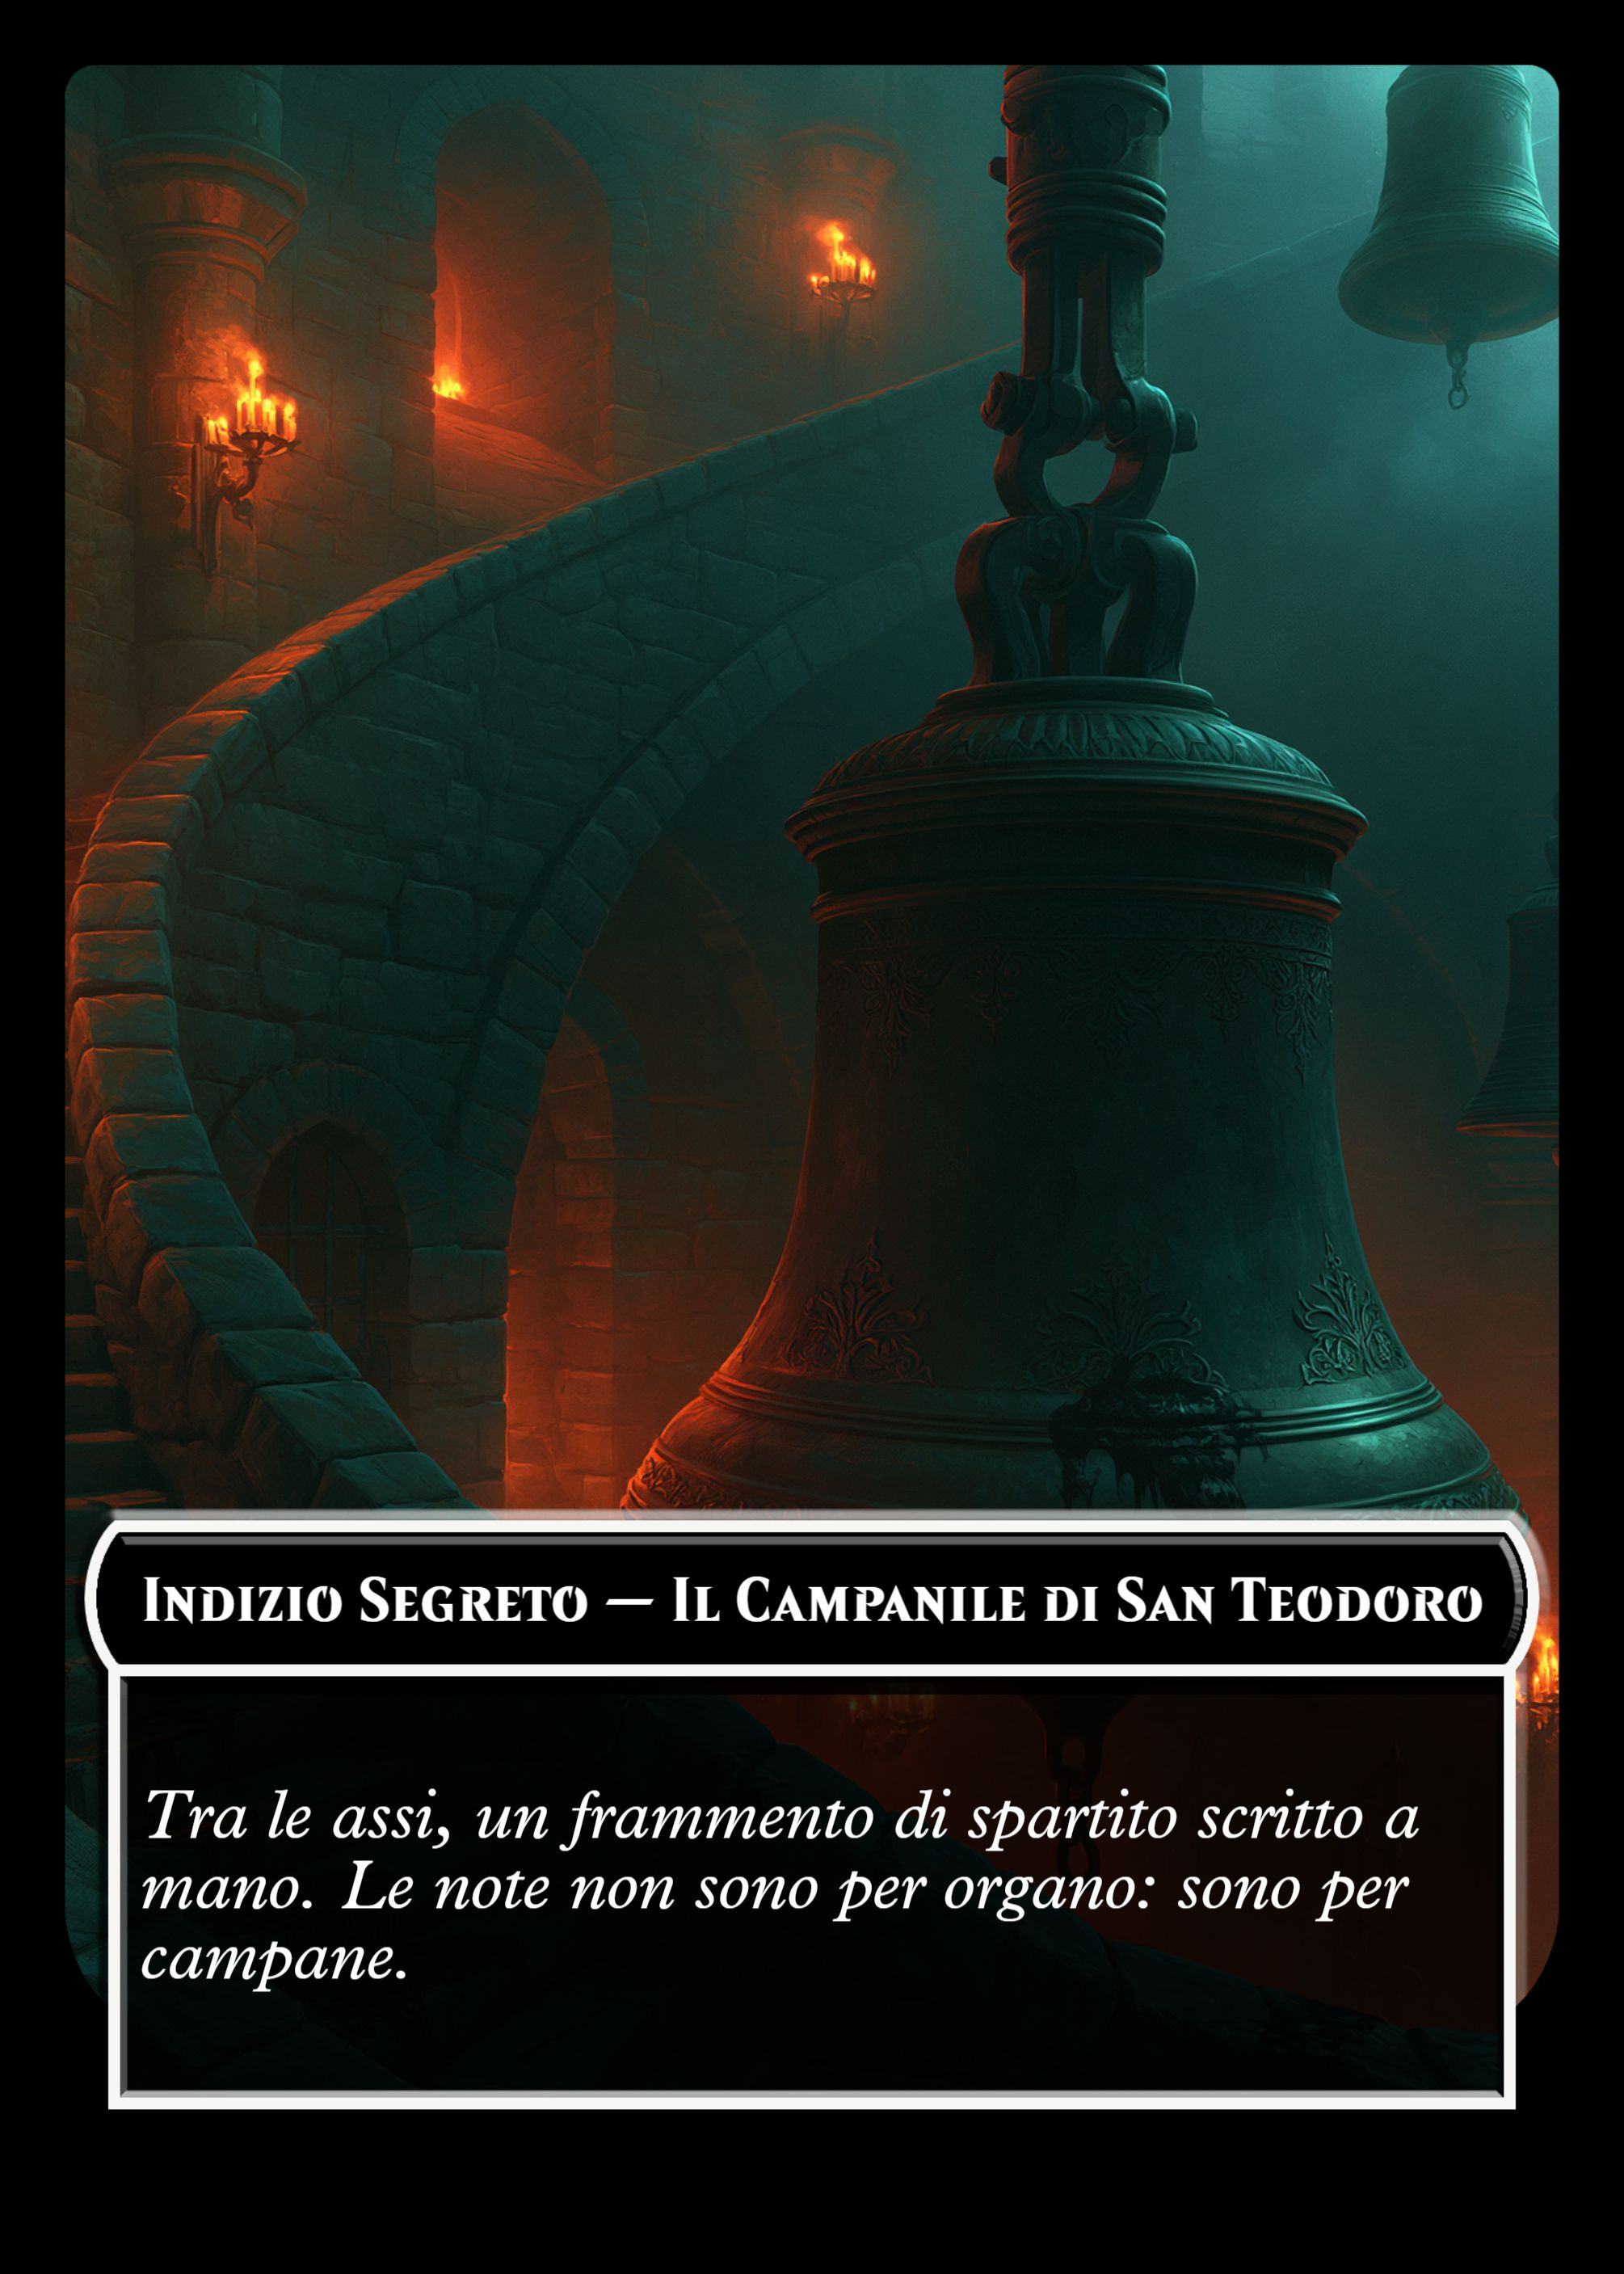
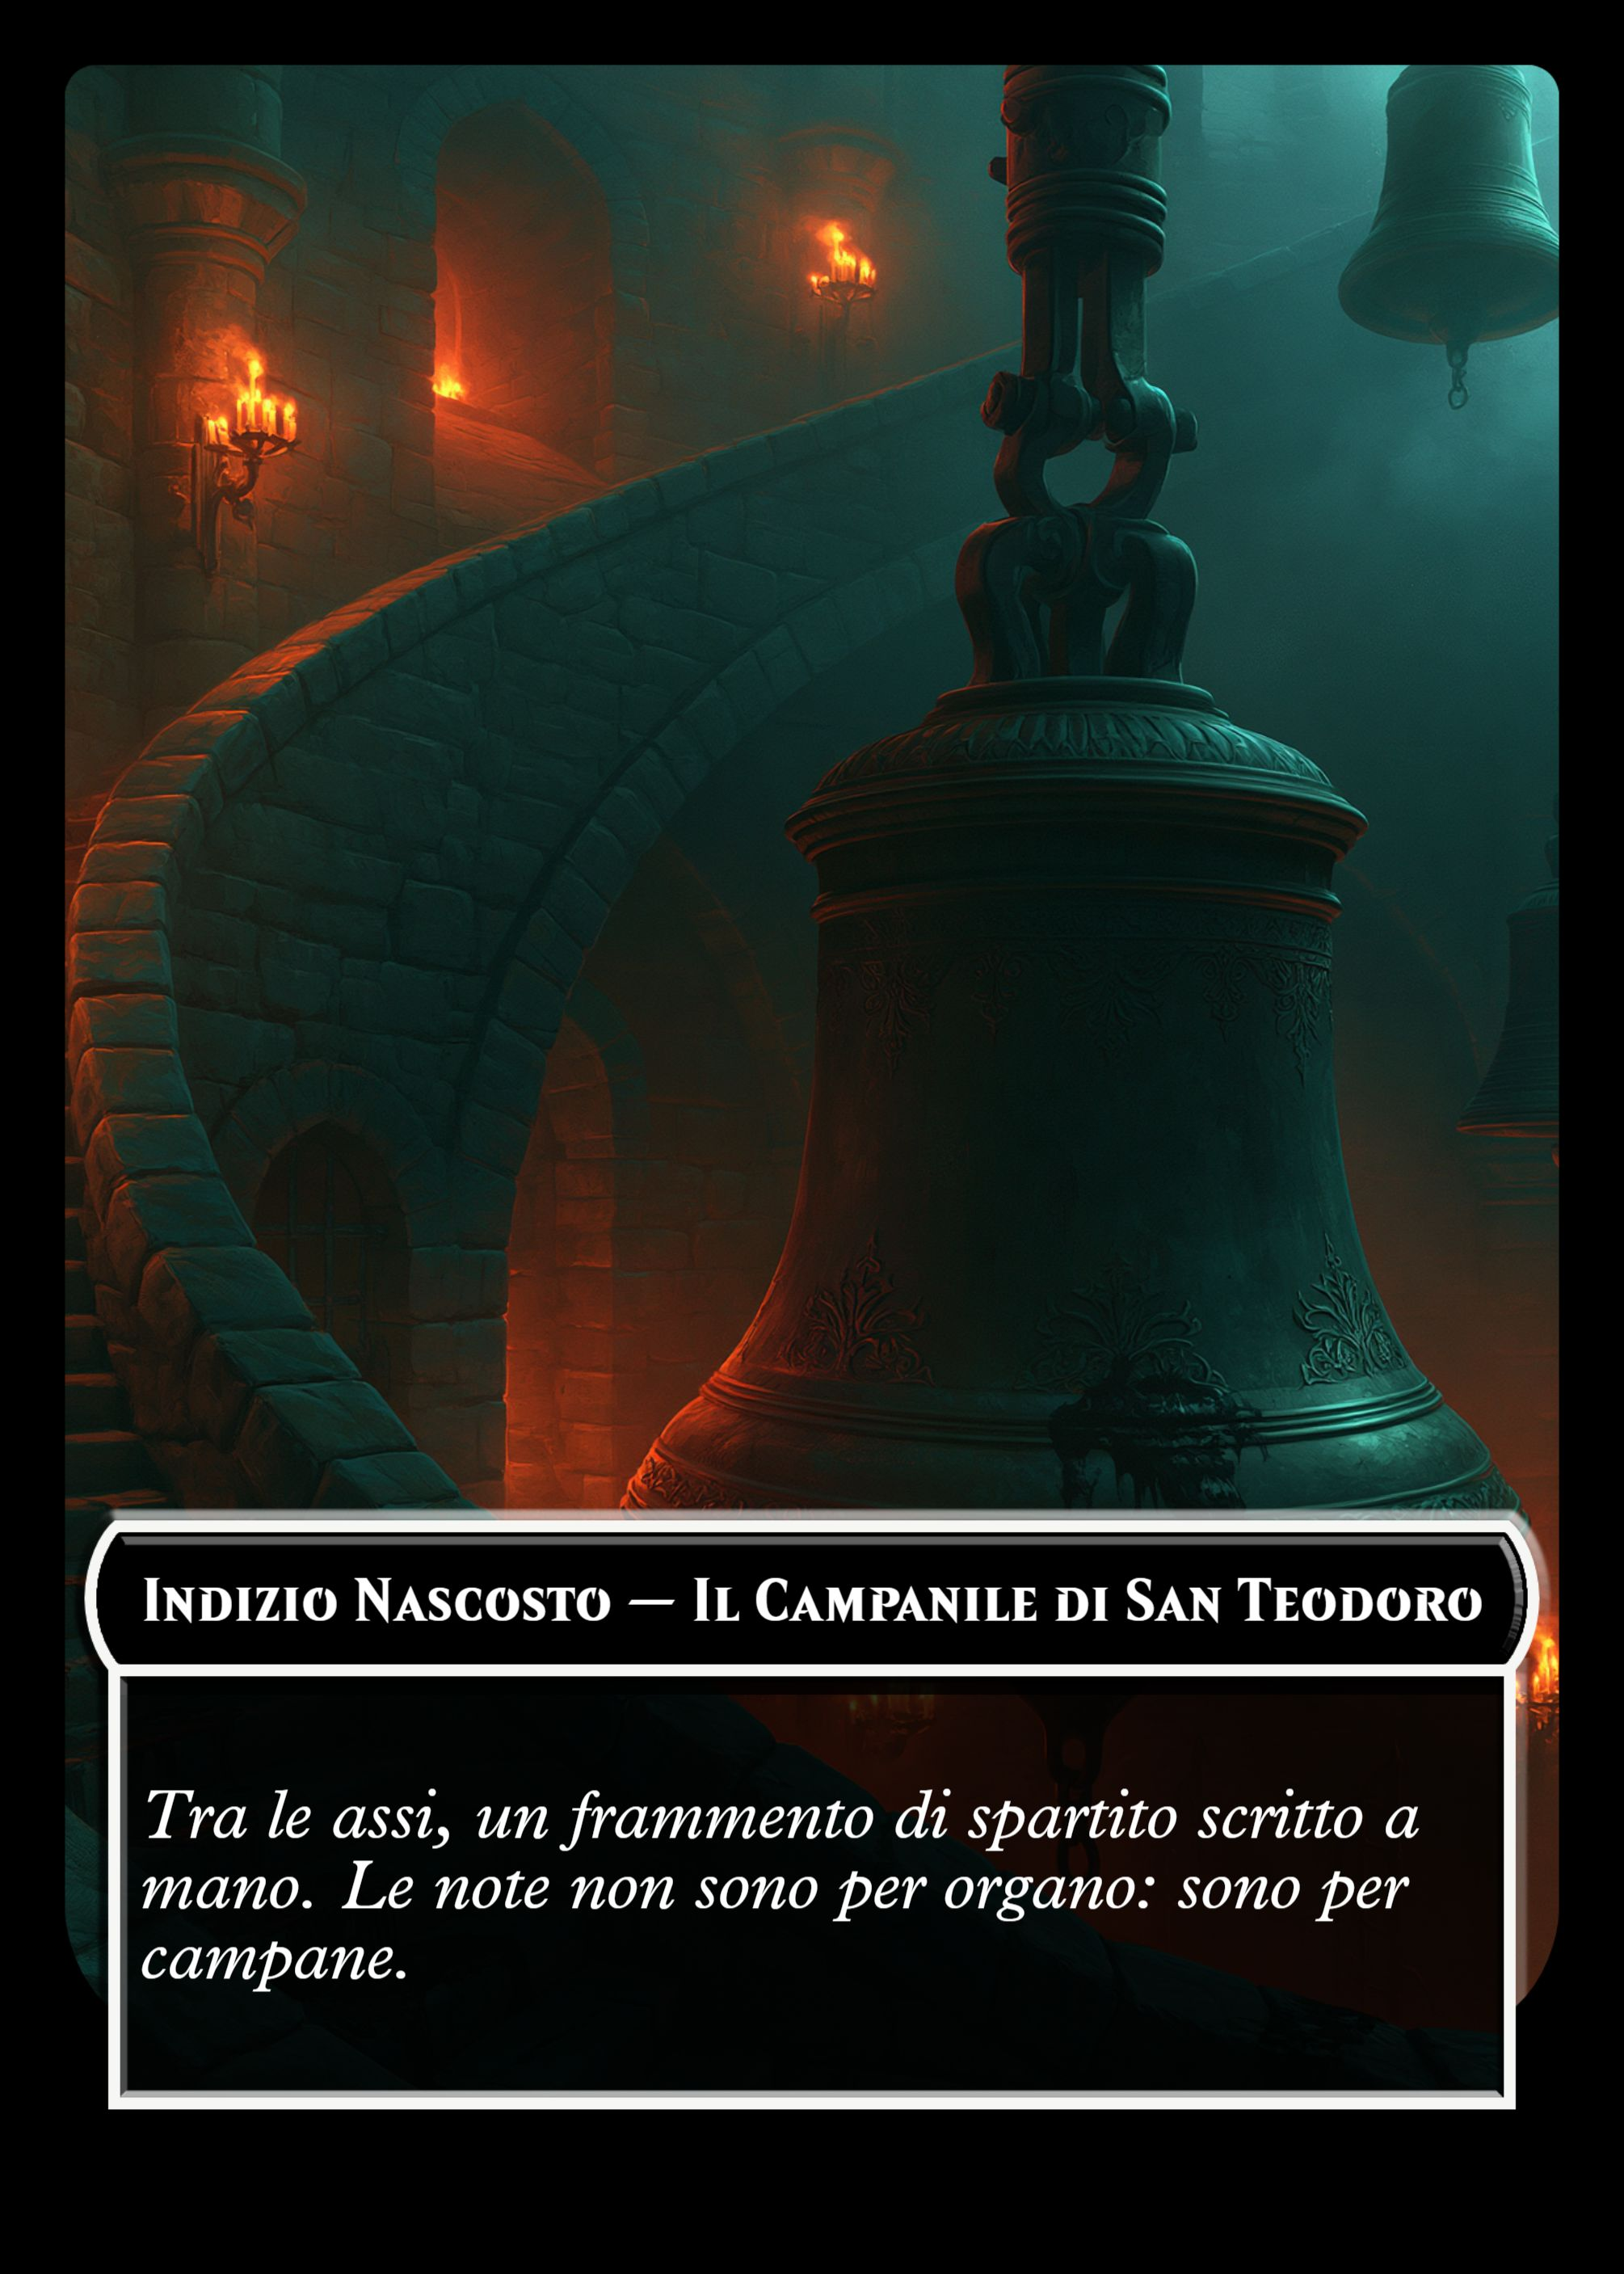
Rinomina Indizio Segreto -> Indizio Nascosto ovunque
Il nome corretto nel gioco e' Indizio Nascosto, non Segreto: corretto in
regolamento, schede eroe, README, prompt Midjourney e sulle carte stesse
(titolo ristampato, PDF rigenerati).

Changed region(s): [[0.1234, 0.6802, 0.8945, 0.7111]]

diff --git a/scripts/cardconjurer/cards-data.js b/scripts/cardconjurer/cards-data.js
@@ -140,7 +140,7 @@ const MINACCE = [
 // Luoghi dell'Indagine: testo esteso da src/story.py TESTI_LUOGHI (quello
 // realmente stampato nel PDF via story.apply), indizi/nascosto/req da
 // src/gen_cards.py LUOGHI. Un'arte per luogo, riusata anche dalla carta
-// Indizio Segreto corrispondente.
+// Indizio Nascosto corrispondente.
 const LUOGHI_ART = {
   1: 'artworks/bell tower.png',
   2: 'artworks/humble candlelit canal-side room.png',
@@ -210,12 +210,12 @@ const LUOGHI = [
   nascosto: L.nascosto,
 }));
 
-// Indizi Segreti: solo i luoghi che hanno un vero Indizio nascosto nei dati
+// Indizi Nascosti: solo i luoghi che hanno un vero Indizio nascosto nei dati
 // (oggi 1 e 4 — vedi src/gen_cards.py). Si legge solo se l'abilita' di un
 // eroe lo permette (Elena: sempre; Ottone: una volta a episodio).
 const INDIZI = LUOGHI.filter((L) => L.nascosto).map((L) => ({
   art: L.art,
-  title: `Indizio Segreto — ${L.title}`,
+  title: `Indizio Nascosto — ${L.title}`,
   file: `Indizi/${L.title}`,
   type: `Si legge solo con un’abilità (Elena: sempre · Ottone: 1 volta a episodio)`,
   rules: `{i}${L.nascosto}{/i}`,

diff --git a/src/gen_cards.py b/src/gen_cards.py
@@ -55,7 +55,7 @@ HEROES = [
     dict(nome='ELENA FOSCO', ruolo='L\u2019Investigatrice', acume=3, vigore=1, nervi=2,
          salute=6, difesa=8,
          abil=('<b>Occhio Clinico</b> \u2014 In indagine: quando Elena visita un luogo con una '
-               'carta <b>Indizio Segreto</b> abbinata, consultatela subito. In spedizione: +2 alle '
+               'carta <b>Indizio Nascosto</b> abbinata, consultatela subito. In spedizione: +2 alle '
                'prove di Cercare.'),
          equip='Bastone animato (arma, +1), lente d\u2019ingrandimento, taccuino rilegato.'),
     dict(nome='DOTT. ATTILIO MARN', ruolo='Il Medico', acume=2, vigore=2, nervi=2,
@@ -79,7 +79,7 @@ HEROES = [
          salute=8, difesa=8,
          abil=('<b>Un bicchiere con tutti</b> \u2014 In indagine: una volta per episodio, '
                'offrendo da bere e da mangiare fa ripetere una testimonianza: se il luogo ha '
-               'una carta <b>Indizio Segreto</b> abbinata, consultatela. In spedizione, '
+               'una carta <b>Indizio Nascosto</b> abbinata, consultatela. In spedizione, '
                '<b>Colpo da macello</b>: una volta per turno, se abbatte un nemico in mischia '
                'attacca immediatamente un altro nemico adiacente.'),
          equip='Mannaia del banco (arma, +1), grembiule di cuoio, fiasco di vino robusto '

diff --git a/src/gen_docs.py b/src/gen_docs.py
@@ -117,7 +117,7 @@ def regolamento():
                 'Prendete appunti sul Taccuino: nomi, orari, parole chiave in MAIUSCOLO.'))
     e.append(LI('Quando trovate una <b>parola chiave</b> o un <b>oggetto</b>, potete da quel momento '
                 'visitare i luoghi che li richiedono.'))
-    e.append(LI('Alcuni luoghi hanno una carta <b>Indizio Segreto</b> abbinata (stesso numero): '
+    e.append(LI('Alcuni luoghi hanno una carta <b>Indizio Nascosto</b> abbinata (stesso numero): '
                 'si consulta solo se l\u2019abilit\u00e0 di un eroe presente lo consente '
                 '(Elena: sempre \u00b7 Ottone: una volta a episodio).'))
     e.append(P('Chiudere l\u2019indagine', 'h2'))

diff --git a/PROMPT-MIDJOURNEY.md b/PROMPT-MIDJOURNEY.md
@@ -149,7 +149,7 @@ Ritratti — **Elena** sharp-eyed woman in her 30s in a dark tailored coat with 
 
 Un'arte per ciascuno degli 8 Luoghi, stesso formato verticale delle altre
 carte (non più orizzontale): serve per la carta Luogo E per la carta
-Indizio Segreto dello stesso luogo, che riusa la stessa immagine — un solo
+Indizio Nascosto dello stesso luogo, che riusa la stessa immagine — un solo
 soggetto da generare per luogo, due carte in uscita.
 
 Sostituisci SCENA e usa questo prompt unico:
@@ -174,11 +174,11 @@ condiviso: prova a rigenerare senza, oppure abbassa `--sw` (es. `--sw 300`).
 
 ## Cornici (una sola generazione, poi si riusa ovunque)
 
-**Cornice carte verticali (Minacce, eroi, Luoghi, Indizi Segreti)** — centro vuoto e scuro:
+**Cornice carte verticali (Minacce, eroi, Luoghi, Indizi Nascosti)** — centro vuoto e scuro:
 ```
 ornate dark fantasy card frame template, carved gold filigree border with ruby and teal gems on black, empty scroll banner at the top, empty dark parchment text panel at the bottom, the large central area completely plain dark and empty, victorian gothic, perfectly symmetrical --ar 3:4 --style raw --no text, letters, words, watermark
 ```
-Stessa cornice per tutti i mazzi verticali, Luoghi e Indizi Segreti inclusi
+Stessa cornice per tutti i mazzi verticali, Luoghi e Indizi Nascosti inclusi
 (non serve più una cornice orizzontale separata).
 
 Suggerimento: per il montaggio serve che il centro sia davvero vuoto; se Midjourney
@@ -197,7 +197,7 @@ ornate symmetrical dark fantasy card back, engraved gold filigree covering the w
 ornate symmetrical dark fantasy card back, engraved gold filigree covering the whole surface, ruby gems, central round empty medallion for a number, deep crimson and black, victorian gothic, perfectly symmetrical, full bleed --ar 3:4 --style raw --no text, letters, words, watermark
 ```
 
-**Dorso carte Indizio Segreto** — mazzo separato, dorso diverso da quello dei
+**Dorso carte Indizio Nascosto** — mazzo separato, dorso diverso da quello dei
 Luoghi cosi' resta irriconoscibile finche' non si scopre:
 ```
 ornate symmetrical dark fantasy card back, engraved gold filigree covering the whole surface, teal gems, central round medallion with a single closed eye, deep midnight blue and black, victorian gothic, perfectly symmetrical, full bleed --ar 3:4 --style raw --no text, letters, words, watermark

diff --git a/README.md b/README.md
@@ -10,11 +10,11 @@ in una città immaginaria di canali e campanili nel 1889. Unisce indagine alla
   - `01-Regolamento` — regole complete
   - `02-Schede-Personaggio` — i 6 eroi della Società del Lume
   - `03-Episodio1-Indagine` — lettera d'incarico, taccuino (le 8 carte Luogo e le
-    carte Indizio Segreto sono immagini a parte, vedi `cards/`)
+    carte Indizio Nascosto sono immagini a parte, vedi `cards/`)
   - `04-Episodio1-Spedizione` — note per tessera, segnalini (le carte Minacce/Nemici e
     le tessere T1-T6 sono file immagine a parte, vedi `cards/` e `board/`)
   - `05-SOLUZIONE-non-aprire` — da stampare senza leggere e sigillare in busta!
-- `cards/` — carte gioco pronte (Eroi, Nemici, Minacce, Luoghi, Indizi Segreti)
+- `cards/` — carte gioco pronte (Eroi, Nemici, Minacce, Luoghi, Indizi Nascosti)
 - `board/` — le 6 tessere T1-T6 della Spedizione, griglia+arredi+porte pronte
 - `reperti/` — documenti-reperto (diario, registro, atti d'archivio) da consegnare
   durante l'indagine, composti su un'unica foto di pergamena